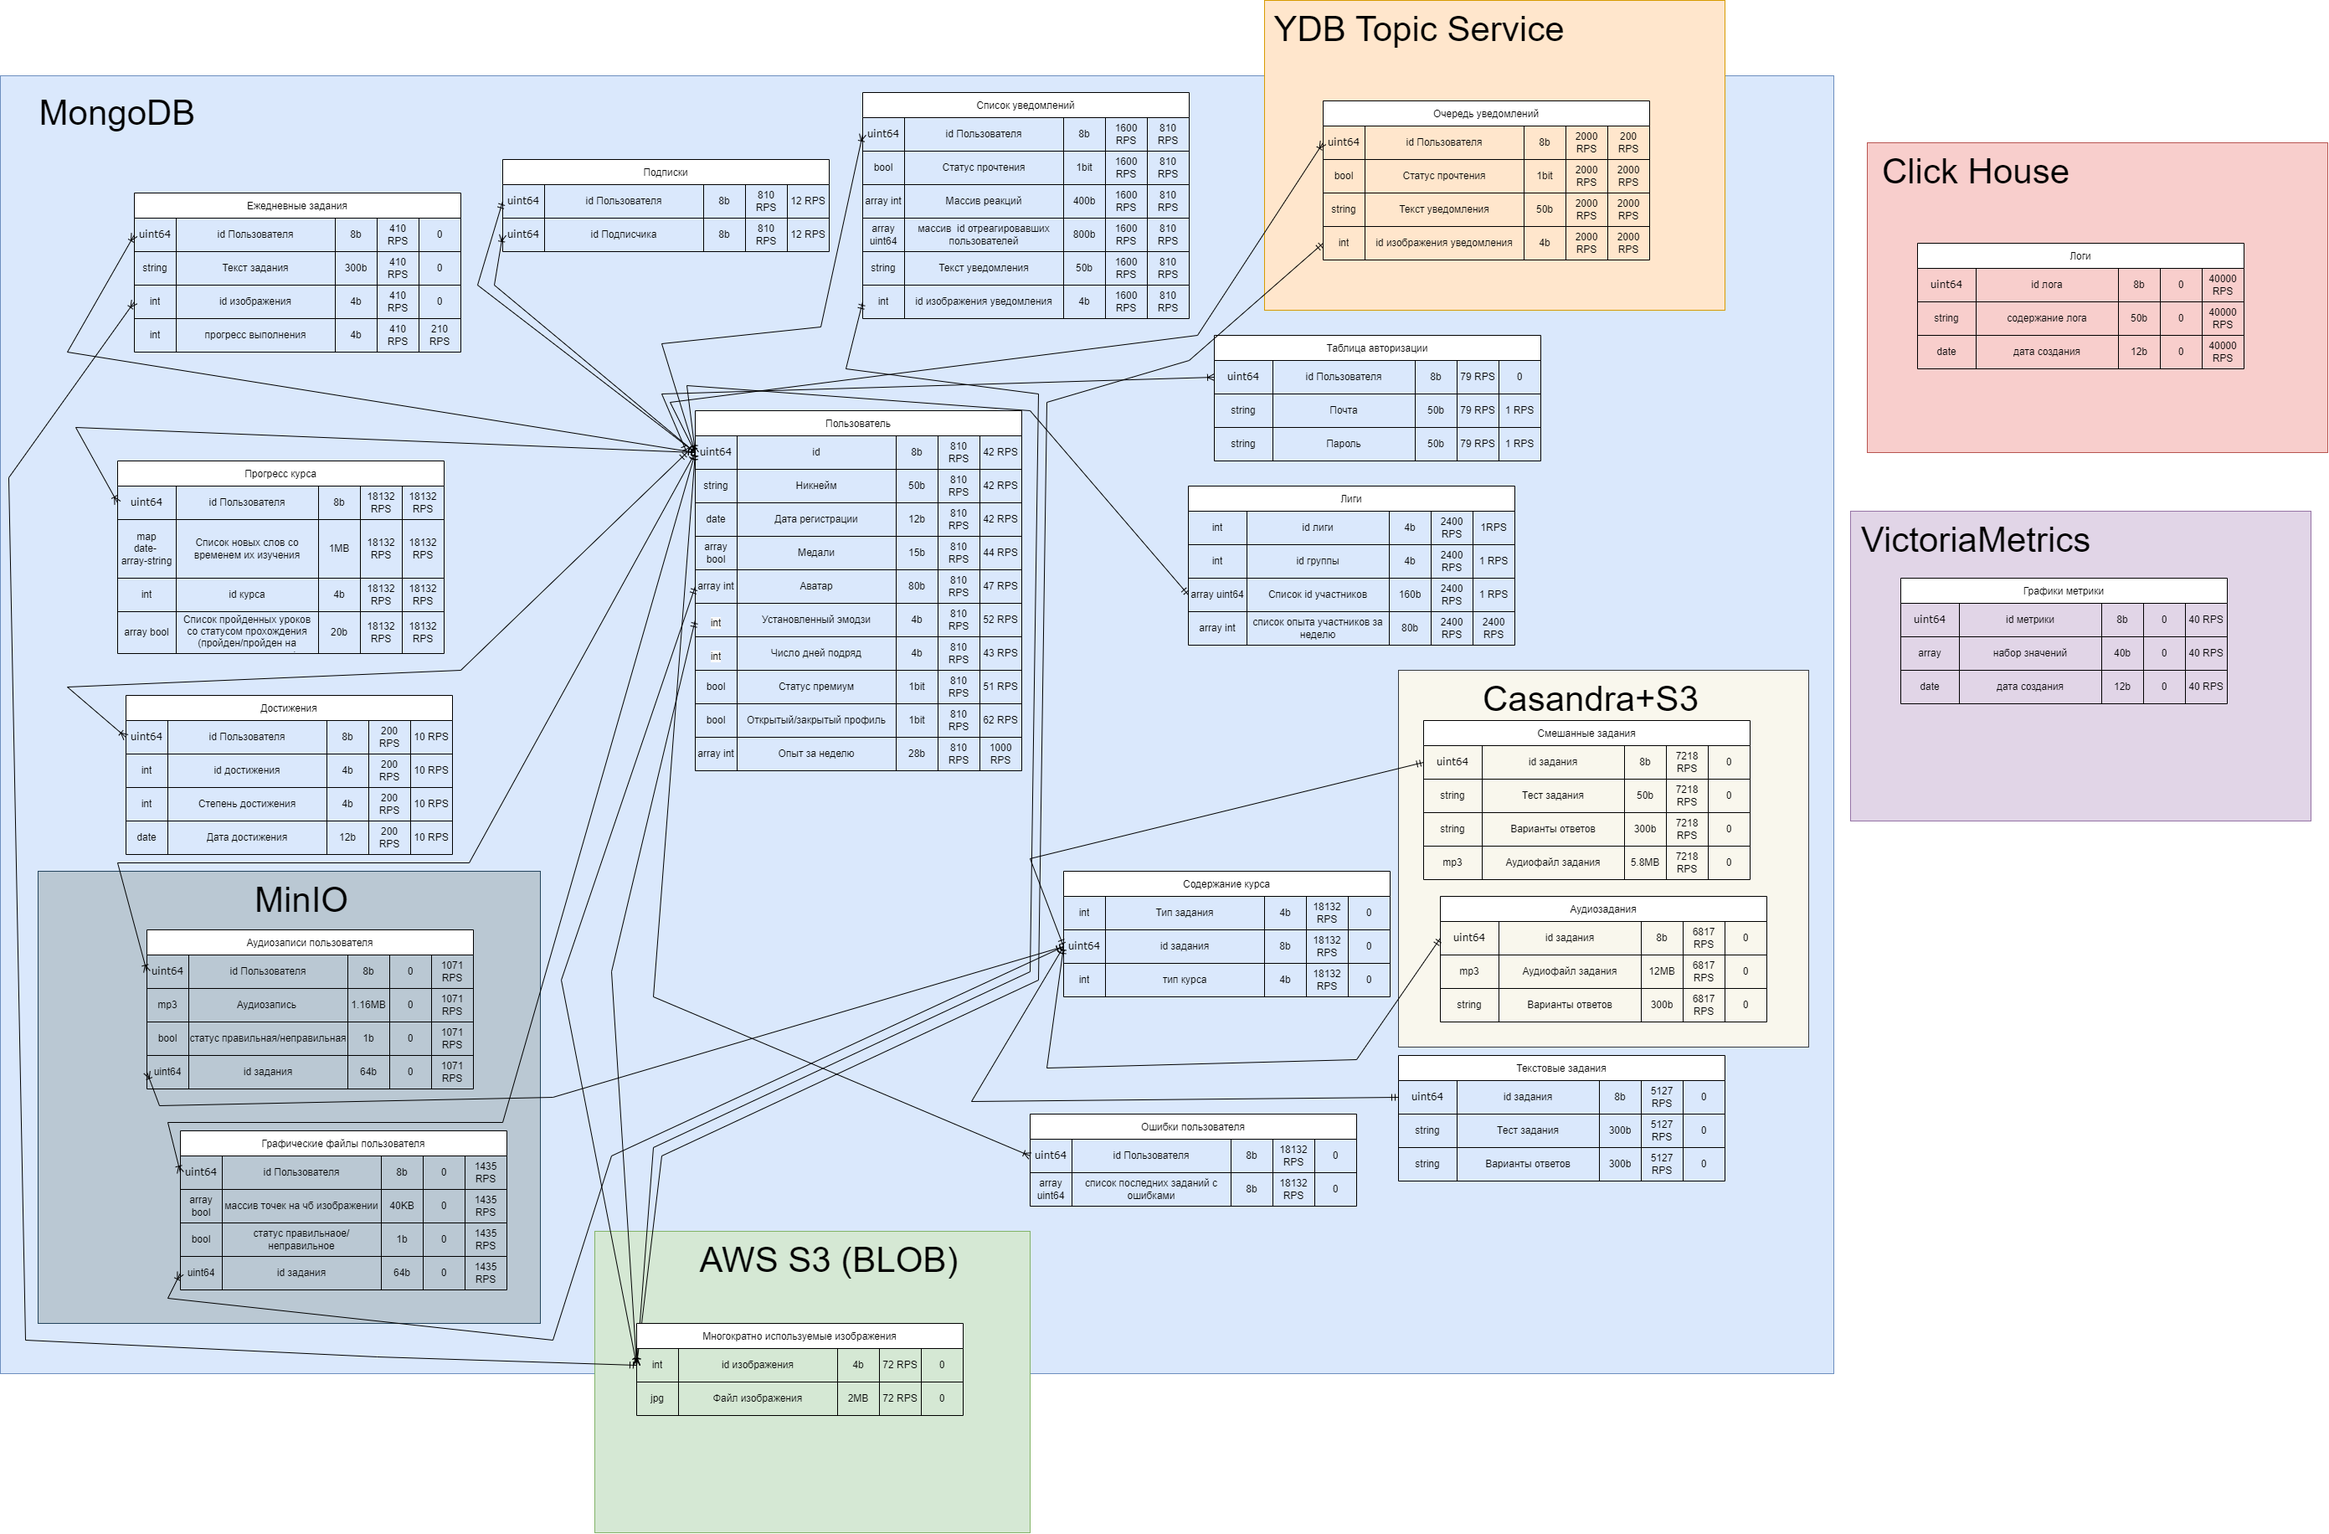
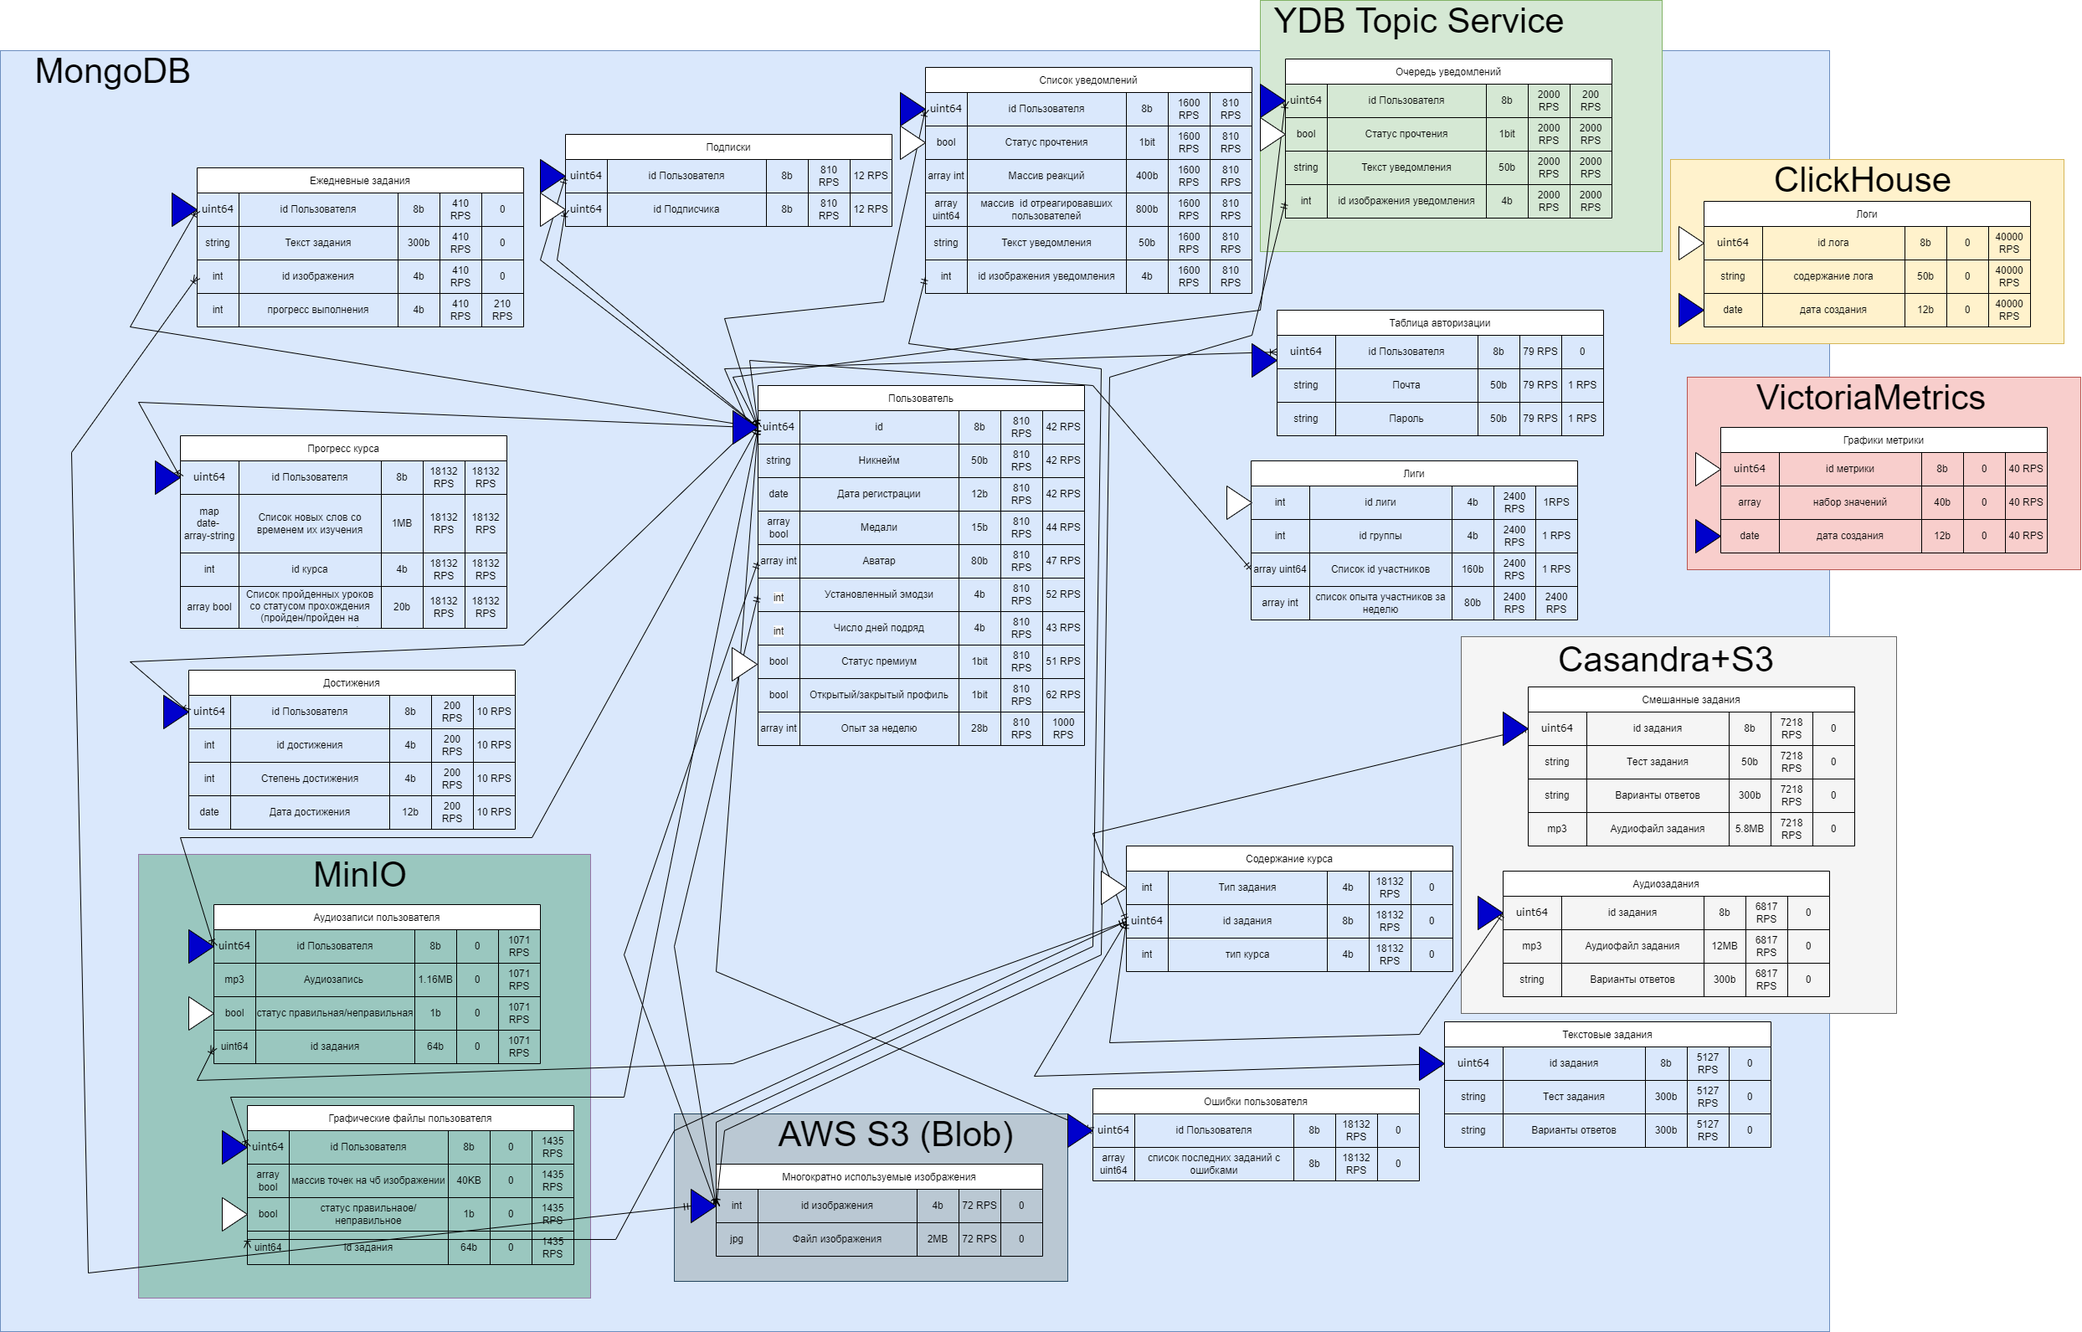
done 6

diff --git a/README.md b/README.md
@@ -274,20 +274,53 @@ Nginx держит постоянное соединение с бекендом
 
 * **Репликация**
 
-Для повышения отказоустойчивости (альтернативных источников чтения в случае проблем с БД) и повышения скорости чтения + разделения нагрузки на чтение и запись используют реплики. Основной узел Master отвечает за запись, а чтение масштабируется за счёт Replica-нод (Slave).
+Для повышения отказоустойчивости (альтернативных источников чтения в случае проблем с БД) и повышения скорости чтения + разделения нагрузки на чтение и запись используют реплики. Основной узел Primary отвечает за запись, а чтение масштабируется за счёт Replica-нод (Secondary).
 
 ## 6. Физическая схема БД
 
-**MongoDB** - автоматически хорошо масштабируется, Casandra не нужна так как нет потребности в добавлении произвольного количества столбцов.  
+### Выбор баз данных
+
+**MongoDB** - будем использовать для большинства таблиц, автоматически хорошо масштабируется, Casandra не нужна так как нет потребности в добавлении произвольного количества столбцов.  
 **YDB Topic Service** - для realtime уведомлений, надежная модель горизонтально масштабирования, в одну шину пишем из другой читаем, лучше чем Kafka переживает шардинг, хранение данных не в трехкратном размере а в 1,5 с той же степенью надежности.  
 **Click House** - для логов и метрик в цифровом виде, он позволит хорошо сжимать данные и обрабатывать большие нагрузки.
-**Virtoria metrics** для графиков метрик - более горизонтально масштабируемая система.  
-**MinIO** - будем использовать его для хранения пользовательских аудиозаписей и рукописных вводов, так как эта БД имеет высокую нагрузку на запись, хорошо масштабируется, поддерживает S3.  
-**Cassandra + S3** -  будем использовать его для хранения аудиофайлов, которые будем раздавать клиентам, Cassandra имеет низкие задержки на чтение, хорошо масштабируется и дешевле AWS.  
+**Virtoria metrics** - для графиков метрик - более горизонтально масштабируемая система.  
+**MinIO** - будем использовать для хранения пользовательских аудиозаписей и рукописных вводов, так как эта БД имеет высокую нагрузку на запись, хорошо масштабируется, поддерживает S3.  
+**Cassandra + S3** -  будем использовать для хранения аудиофайлов, которые будем раздавать клиентам, Cassandra имеет низкие задержки на чтение, хорошо масштабируется и дешевле AWS.  
 Blob для мелких изображений, выберем **AWS S3**, что обеспечит нам качественные алгоритмы и высокую поддержку, хорошее горизонтальное масштабирование при необходимости.  
-Host near by
+
+### Шардирование
+
+Будем использовать **Primary-Secondary** шардирование, это позволит нам снизить высокую нагрузку на чтение, разделив ее по Secondary репликам.
+Будем использовать **Hash-based sharding** на основе ключей - чаще всего **id пользователей**, так как они равномерно распределены по всему диапазону, а также таблицы соответственно хорошо изолированны из-за малого взаимодействия пользователей друг с другом.  
+В **mongodb** один mongod может обрабатывать 10K операций в секунду, исходя из этих расчетов и того, что mongodb не умеет выполнять join между шардами, получим 7 шардов.  
+В логгировании (таблицы с логами и метриками) будем использовать **партиционирование по дате**.  
+В базе данных **VirtoriaMetrics** - vminsert распределяет данные по шардам по хэшу метрики, поэтому:  
+Все данные с одинаковыми именем метрики попадают на один шард. Это уменьшает нагрузку на один узел, но важно правильно подобрать количество шардов. (Будем использовать 5 шардов это оптимальное количество для примерно 10-50 млн временных рядов)  
+**MinIO** — это объектное хранилище, совместимое с S3 API, которое поддерживает горизонтальное масштабирование за счёт дисков и серверов. Шардирование в MinIO происходит на уровне разбиения данных (erasure coding) и балансировки между узлами (distributed mode).  
+Erasure Coding (EC) — ключевая технология MinIO разбивает объекты на фрагменты и распределяет их по дискам. Выберем для отказоустойчивости конфигурацию EC:4+2: 4 фрагмента для данных 2 фрагмента для восстановления. 
+В **Casandra** для крупных кластеров используется более 30 узлов, так как у основная нагрузка у нас идет здесь то выберем 35 узлов и соответсвенно 512 vnodes (в Apache Cassandra, который позволяет одному физическому узлу (серверу) отвечать за несколько диапазонов токенов в кластере, а не за один непрерывный диапазон, как в традиционном подходе с ручным распределением токенов). Это позволит проводить автоматическую балансировку, упростить администрирование и улучшить распределение.
+
+### Резервирование
+
+Будем использовать **автоматическое резервирование**, если Primary выходит из строя, один из Secondary становится новым Primary.  
+Также будем использовать mongodump / mongorestore, для логического бекапа всей БД в BSON-формате и восстановления данных соответственно.  
+Для быстрого восстановления будем использовать mongodump, который делает снапшот всей БД.
+Также будем использовать облачные бекапы в S3 через MongoDB Atlas.  
+
+### Мультиплексирование запросов
+
+MongoDB-клиенты используют пулы соединений для повторного использования уже установленных подключений. Это уменьшает накладные расходы на создание новых соединений.  
+
+* При новом запросе клиент не создаёт новое соединение, а использует готовое из пула
+* Если соединений не хватает, пул создаёт новые
+* Если соединение не используется долгое время, оно может быть закрыто
+
+Также будем использовать Keep-Alive соединения (долгоживущие TCP-соединения) для поддержания обмена файлами с клиентом, для меньшей задержки и более полезной утилизации ресурсов сервера (не будем тратить ресурсы на установление новых соединений).
 
 ### **Физическая схема:**
+
+Синие треугольники - ключи шардирования
+Белые треугольники - индексы
 
 ![alt text](phisic_scheme.png)
 
